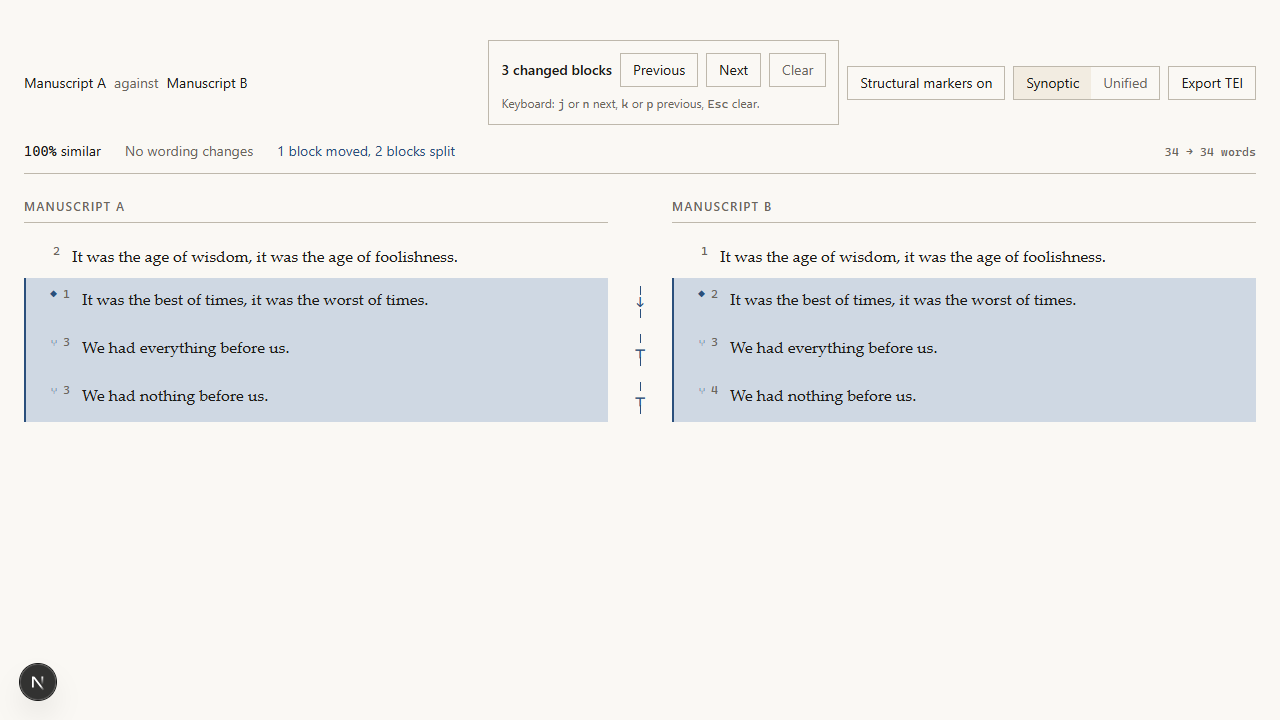
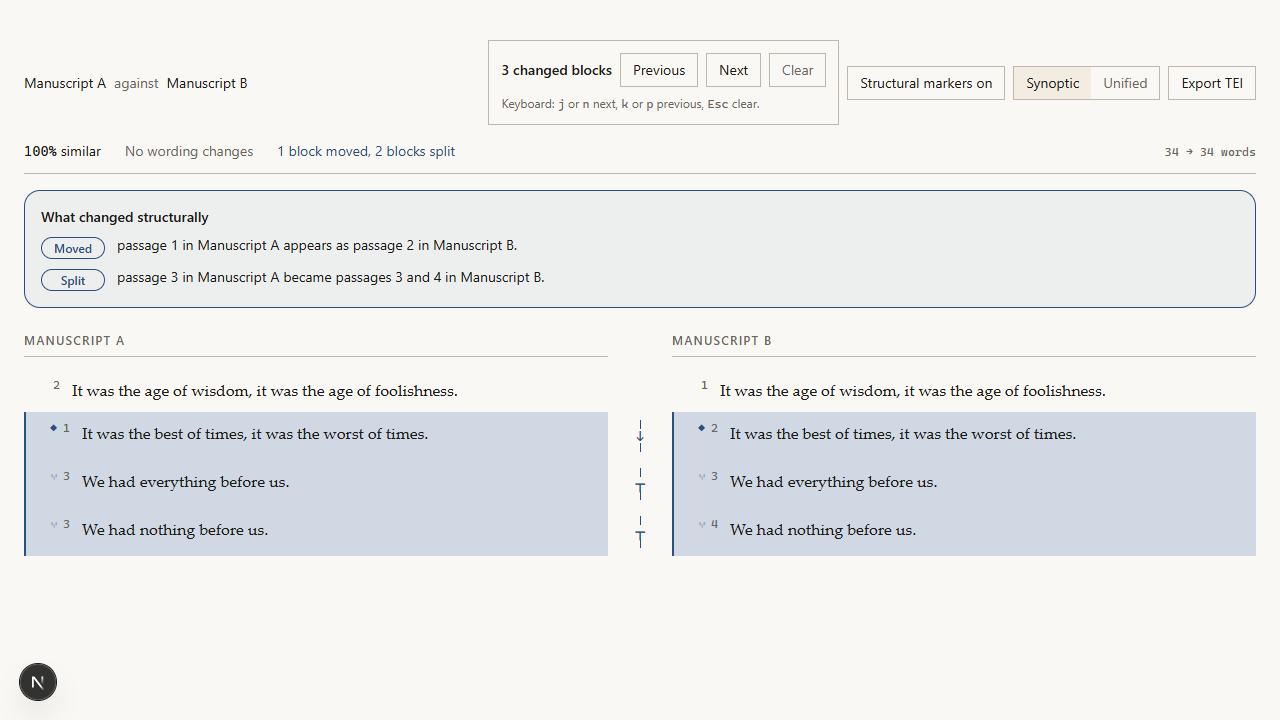
fix(frontend): explain structural changes in words
The screenshot required a reader to infer a move and split from a diamond, a down arrow, two fork glyphs, blue underlays, and mismatched block ordinals. That is a private visual vocabulary, not an explanation.

The viewer now states the relationships before the manuscripts: which A passage appears at which B position, and which passage became several or several became one. Details wait until the full block set is loaded, are capped for long collations, and disappear with the structural-marker toggle. The live moved/split/merge tests pin the sentences and the accessibility pass covers the panel.

The documentation screenshots are regenerated from the real application. Their capture utility now terminates the exact Windows process tree by PID, so it exits in seconds instead of leaving uvicorn alive indefinitely.

diff --git a/frontend/components/StructuralSummary.tsx b/frontend/components/StructuralSummary.tsx
@@ -1,0 +1,149 @@
+import type { BlockStatus, DiffBlock } from "@/lib/types";
+
+const STRUCTURAL_STATUSES = new Set<BlockStatus>(["MOVED", "SPLIT", "MERGED"]);
+const MAX_VISIBLE_RELATIONSHIPS = 5;
+
+interface StructuralRelationship {
+  key: string;
+  status: "MOVED" | "SPLIT" | "MERGED";
+  description: string;
+}
+
+function uniqueIndices(values: Array<number | null>): number[] {
+  return [...new Set(values.filter((value): value is number => value !== null))].sort(
+    (left, right) => left - right,
+  );
+}
+
+function joinPositions(indices: number[]): string {
+  const positions = indices.map((index) => (index + 1).toLocaleString());
+  if (positions.length === 1) return positions[0];
+  if (positions.length === 2) return `${positions[0]} and ${positions[1]}`;
+  return `${positions.slice(0, -1).join(", ")}, and ${positions.at(-1)}`;
+}
+
+function passage(indices: number[]): string {
+  return `${indices.length === 1 ? "passage" : "passages"} ${joinPositions(indices)}`;
+}
+
+/**
+ * Turn the payload's structural groups into sentences rather than asking a
+ * reader to decode a diamond, arrow, fork, and two block ordinals.
+ */
+export function structuralRelationships(blocks: DiffBlock[]): StructuralRelationship[] {
+  const groups = new Map<string, DiffBlock[]>();
+
+  for (const block of blocks) {
+    if (!STRUCTURAL_STATUSES.has(block.status)) continue;
+
+    const key =
+      block.status === "MOVED"
+        ? `MOVED:${block.id}`
+        : `${block.status}:${block.group_id ?? block.id}`;
+    const group = groups.get(key);
+    if (group) {
+      group.push(block);
+    } else {
+      groups.set(key, [block]);
+    }
+  }
+
+  const relationships: StructuralRelationship[] = [];
+  for (const [key, group] of groups) {
+    const status = group[0].status;
+    const aIndices = uniqueIndices(group.map((block) => block.a_index));
+    const bIndices = uniqueIndices(group.map((block) => block.b_index));
+    if (aIndices.length === 0 || bIndices.length === 0) continue;
+
+    if (status === "MOVED") {
+      relationships.push({
+        key,
+        status,
+        description: `${passage(aIndices)} in Manuscript A appears as ${passage(bIndices)} in Manuscript B.`,
+      });
+    } else if (status === "SPLIT") {
+      relationships.push({
+        key,
+        status,
+        description: `${passage(aIndices)} in Manuscript A became ${passage(bIndices)} in Manuscript B.`,
+      });
+    } else if (status === "MERGED") {
+      relationships.push({
+        key,
+        status,
+        description: `${passage(aIndices)} in Manuscript A became ${passage(bIndices)} in Manuscript B.`,
+      });
+    }
+  }
+
+  return relationships;
+}
+
+function displayStatus(status: StructuralRelationship["status"]): string {
+  switch (status) {
+    case "MOVED":
+      return "Moved";
+    case "SPLIT":
+      return "Split";
+    case "MERGED":
+      return "Merged";
+  }
+}
+
+/**
+ * A prose explanation of the structural marks in the reading surface.
+ *
+ * Details are withheld until every block has loaded: a split group whose
+ * second member is still outside the window would otherwise be described as a
+ * one-to-one relationship, which is exactly the kind of plausible lie this
+ * component exists to prevent.
+ */
+export function StructuralSummary({
+  blocks,
+  visible,
+  complete,
+}: {
+  blocks: DiffBlock[];
+  visible: boolean;
+  complete: boolean;
+}) {
+  if (!visible || !complete) return null;
+
+  const relationships = structuralRelationships(blocks);
+  if (relationships.length === 0) return null;
+
+  const visibleRelationships = relationships.slice(0, MAX_VISIBLE_RELATIONSHIPS);
+  const hiddenCount = relationships.length - visibleRelationships.length;
+
+  return (
+    <section
+      className="mt-4 rounded-2xl border border-moved bg-moved-underlay/30 p-4 font-ui text-sm text-ink"
+      aria-labelledby="structural-summary-heading"
+      data-testid="structural-summary"
+    >
+      <h2 id="structural-summary-heading" className="font-semibold">
+        What changed structurally
+      </h2>
+      <ul className="mt-2 space-y-2">
+        {visibleRelationships.map((relationship) => (
+          <li
+            key={relationship.key}
+            className="flex items-start gap-3"
+            data-testid={`structural-relationship-${relationship.status}`}
+          >
+            <span className="mt-0.5 min-w-16 rounded-full border border-moved px-2 py-0.5 text-center text-xs font-semibold text-moved">
+              {displayStatus(relationship.status)}
+            </span>
+            <span>{relationship.description}</span>
+          </li>
+        ))}
+      </ul>
+      {hiddenCount > 0 ? (
+        <p className="mt-3 text-xs text-ink-muted">
+          {hiddenCount.toLocaleString()} more structural{" "}
+          {hiddenCount === 1 ? "change" : "changes"} — use Next to visit each one.
+        </p>
+      ) : null}
+    </section>
+  );
+}

diff --git a/frontend/e2e/structural-live.spec.ts b/frontend/e2e/structural-live.spec.ts
@@ -89,6 +89,12 @@ test("a moved passage reads as moved, not as a deletion and an insertion", async
   await expect(marker).toBeVisible();
   await expect(marker).toHaveText(GLYPH.MOVED);
 
+  const explanation = page.getByTestId("structural-relationship-MOVED");
+  await expect(explanation).toContainText("Moved");
+  await expect(explanation).toContainText(
+    /passage \d+ in Manuscript A appears as passage \d+ in Manuscript B/i,
+  );
+
   // The distance is the whole information content of a move marker: "moved"
   // alone does not tell a reader where the passage went.
   await expect(marker).toHaveAttribute("title", /^moved \d+ blocks? (earlier|later)$/);
@@ -116,6 +122,9 @@ test("a paragraph split reads as a split group with no wording change", async ({
   // paragraphs came from one.
   await expect(page.locator('[data-testid^="block-connector-"]').first()).toBeVisible();
   await expect(page.getByTestId("gutter-marker-SPLIT").first()).toHaveText(GLYPH.SPLIT);
+  await expect(page.getByTestId("structural-relationship-SPLIT")).toContainText(
+    /passage \d+ in Manuscript A became passages \d+ and \d+ in Manuscript B/i,
+  );
 
   // The author changed the paragraphing and not one word.
   await expect(page.getByTestId("diff-summary-bar")).toContainText(
@@ -136,6 +145,9 @@ test("a merged pair reads as a merge group with no wording change", async ({
 
   await expect(page.getByTestId("gutter-marker-MERGED").first()).toHaveText(GLYPH.MERGED);
   await expect(page.locator('[data-testid^="block-connector-"]').first()).toBeVisible();
+  await expect(page.getByTestId("structural-relationship-MERGED")).toContainText(
+    /passages \d+ and \d+ in Manuscript A became passage \d+ in Manuscript B/i,
+  );
 
   await expect(page.getByTestId("diff-summary-bar")).toContainText(
     /no wording changes/i,
@@ -150,6 +162,7 @@ test("the moves toggle suppresses move affordances and survives sharing", async 
 
   await gotoComparison(page, `/c/${id}`);
   await expect(page.getByTestId("diff-viewer")).toHaveAttribute("data-moves", "on");
+  await expect(page.getByTestId("structural-summary")).toBeVisible();
   const connector = page.locator('[data-testid^="block-connector-"]').first();
   await expect(connector).toHaveAttribute("data-visible", "true");
 
@@ -161,10 +174,12 @@ test("the moves toggle suppresses move affordances and survives sharing", async 
   // state: a reader who turned markers off should see plain prose.
   await expect(connector).toHaveAttribute("data-visible", "false");
   await expect(page.getByTestId("gutter-marker-MOVED").first()).toHaveText("");
+  await expect(page.getByTestId("structural-summary")).toHaveCount(0);
 
   // A researcher must be able to send a colleague the suppressed view.
   await gotoComparison(page, `/c/${id}?moves=off`);
   await expect(page.getByTestId("diff-viewer")).toHaveAttribute("data-moves", "off");
+  await expect(page.getByTestId("structural-summary")).toHaveCount(0);
   await expect(
     page.locator('[data-testid^="block-connector-"]').first(),
   ).toHaveAttribute("data-visible", "false");

diff --git a/frontend/components/DiffViewer.tsx b/frontend/components/DiffViewer.tsx
@@ -15,6 +15,7 @@ import { useBlockNavigation } from "@/lib/hooks/useBlockNavigation";
 import { useWindowedBlocks } from "@/lib/hooks/useWindowedBlocks";
 import { usePrintAll } from "@/lib/hooks/usePrintAll";
 import { LoadingProgress } from "./LoadingProgress";
+import { StructuralSummary } from "./StructuralSummary";
 
 function ViewModeToggle({
   mode,
@@ -212,6 +213,12 @@ export function DiffViewer({
         isComplete={windowed.isComplete}
         error={windowed.error}
         onRetry={windowed.retry}
+      />
+
+      <StructuralSummary
+        blocks={blocks}
+        visible={movesEnabled}
+        complete={windowed.isComplete}
       />
 
       {blocks.length === 0 ? (

diff --git a/docs/10-components.md b/docs/10-components.md
@@ -1,6 +1,6 @@
 This document specifies the React component contract for uploading witnesses and reading a finished `ComparisonResult`.
 
-**Status:** Draft
+**Status:** Implemented and normative for v1
 
 **Related:** [README](./README.md) · [Data schema](./05-data-schema.md) · [API reference](./06-api-reference.md) · [Frontend architecture](./08-frontend-architecture.md) · [Design system](./09-design-system.md) · [Performance and scale](./11-performance-and-scale.md)
 
@@ -17,6 +17,7 @@ The client does not compute a diff. It uploads two witnesses, asks the backend f
 /c/[comparisonId]
 └─ DiffViewer
    ├─ DiffSummaryBar
+   ├─ StructuralSummary                explicit moved/split/merged sentences
    ├─ ViewModeToggle
    ├─ ChangeNavigator
    ├─ LoadingProgress                  while a windowed comparison loads
@@ -40,12 +41,12 @@ The gutter shows block ordinals from `a_index` and `b_index`. These are not rend
 
 | Convention | Requirement |
 |---|---|
-| Client boundary | `ManuscriptUploader`, `DiffViewer`, `VirtualizedSynopticView`, `VirtualizedUnifiedView`, `DiffSummaryBar`, `DiffBlockRow`, `TokenSpan`, `ChangeGutter`, `ChangeNavigator`, `LoadingProgress`, `ComparisonPending`, `ViewModeToggle`, `BlockConnector`, and `EmptyState` are client components because they read browser input, URL state, focus state, measured layout, or scroll position. |
+| Client boundary | `ManuscriptUploader`, `DiffViewer`, `VirtualizedSynopticView`, `VirtualizedUnifiedView`, `DiffSummaryBar`, `StructuralSummary`, `DiffBlockRow`, `TokenSpan`, `ChangeGutter`, `ChangeNavigator`, `LoadingProgress`, `ComparisonPending`, `ViewModeToggle`, `BlockConnector`, and `EmptyState` render inside client boundaries because they consume browser state or the interactive comparison payload. |
 | Naming | Public props use `comparisonId`, `comparison`, `blocks`, `metrics`, `options`, `a`, `b`, `a_index`, and `b_index` only where those names mirror the contract. UI text always says Manuscript A and Manuscript B, never positional pane labels. |
 | Memoization | `TokenSpan` is memoized by `text`, `status`, and announcement mode. `DiffBlockRow` is memoized by `DiffBlock.id`, pane, expansion state, and focus state. Handlers passed into virtualized rows are stable callbacks. |
 | DOM discipline | A 100,000-word manuscript can produce about 120,000 word tokens per witness before payload run-coalescing. A payload `Token` is a contiguous run, not necessarily one word. Rows render only the current virtual window and must never compute metrics by counting `Token` array entries. |
 | URL state | `?view=synoptic` maps to `ViewMode.SYNOPTIC`; `?view=unified` maps to `ViewMode.UNIFIED`. `?block=<index>` uses the block ordinal, not a DOM row number. `?moves=on|off` controls whether move connectors are shown; it does not mutate `DiffOptions.detect_moves`, which only records how the backend computed the payload. |
-| Testability hooks | Components expose stable `data-testid` values for the component root and block ids: `manuscript-uploader`, `diff-viewer`, `synoptic-view`, `diff-summary-bar`, `block-loading-status`, `diff-block-row-{id}`, and `token-{status}`. Hooks must not encode visual position. |
+| Testability hooks | Components expose stable `data-testid` values for the component root and block ids: `manuscript-uploader`, `diff-viewer`, `synoptic-view`, `diff-summary-bar`, `structural-summary`, `structural-relationship-{status}`, `block-loading-status`, `diff-block-row-{id}`, and `token-{status}`. Hooks must not encode visual position. |
 
 ## ManuscriptUploader
 
@@ -433,44 +434,58 @@ Structural findings — moved, split, merged, and changed stanza breaks — are 
 ```ts
 export interface DiffSummaryBarProps {
   metrics: DiffMetrics;
-  blocks: DiffBlock[];
-  total_blocks: number;
-  activeBlockIndex?: number | null;
-  onNavigateToBlock?: (blockIndex: number) => void;
-  isWindowed?: boolean;
 }
 ```
 
 ### Internal state
 
-| State | Purpose |
-|---|---|
-| `focusedMinimapIndex` | Keyboard focus within the change-density minimap. |
-| `visibleRange` | The loaded or visible block range, used to distinguish full and windowed payloads. |
+None. Every displayed value is derived directly from `DiffMetrics`.
 
 ### Behaviour
 
-The bar renders `DiffMetrics.similarity`, `edit_count`, `insertions`, `deletions`, `churn`, `blocks_moved`, `blocks_split`, `blocks_merged`, `a_word_count`, and `b_word_count`. Percent values render with one decimal place below 99.95% and as whole `0%` or `100%` at the extremes. Counts use locale-aware grouping. A comparison with no changes reads "100% similar, 0 edits"; a comparison with no shared tokens reads "0% similar" and reports insertions and deletions rather than implying failure.
+The bar renders rounded `DiffMetrics.similarity`, wording changes as insertion/deletion word counts (or "No wording changes"), structural counts, and the A-to-B word-count transition. Counts use locale-aware grouping.
 
-`insertions`, `deletions`, `edit_count`, and `unchanged_tokens` are word counts supplied by `DiffMetrics`, never counts derived from `Token[]` length. `DiffSummaryBar` may aggregate block statuses for navigation density, but it must not derive textual metrics from rendered tokens.
-
-The change-density minimap represents all `total_blocks`. Each segment aggregates blocks by status and doubles as navigation. In windowed mode, unloaded ranges remain visible as neutral segments and request their page before navigation.
+`insertions`, `deletions`, `edit_count`, and `unchanged_tokens` are word counts supplied by `DiffMetrics`, never counts derived from `Token[]` length. The bar must not derive textual metrics from rendered tokens.
 
 ### Accessibility
 
-Metrics are grouped in a labelled summary region. The minimap is keyboard navigable and exposes each segment as a button with an accessible name such as "Blocks 400 to 449, high change density".
+Metrics are grouped in a region labelled "Comparison summary". Wording and structural findings are separate phrases so "No wording changes" never implies "nothing changed".
 
 ### Edge, empty, and error states
 
 | State | Rendering |
 |---|---|
-| `total_blocks === 0` | Show word counts and "No comparable blocks". |
-| All unchanged | Show a quiet minimap and do not hide the navigation control. |
-| All changed | Show "0% similar" and a full-density minimap without warning styling. |
+| All wording unchanged | Show "No wording changes"; retain any structural counts. |
+| No structural findings | Omit the structural-count phrase. |
+| No shared wording | Show `0% similar` and the insertion/deletion word counts. |
 
 ### Design tokens consumed
 
 `DiffSummaryBar` consumes `--color-ink`, `--color-ink-muted`, `--color-paper`, `--color-rule`, `--color-rubric`, `--color-addition`, `--color-deletion`, `--color-moved`, `--font-ui`, and `--font-mono`.
+
+## StructuralSummary
+
+`StructuralSummary` translates `MOVED`, `SPLIT`, and `MERGED` payload
+relationships into sentences before the manuscript begins. Connectors and
+gutter glyphs remain useful for tracing the rows visually, but they are not
+treated as a vocabulary a first-time reader should already know.
+
+Examples:
+
+- "Moved — passage 1 in Manuscript A appears as passage 2 in Manuscript B."
+- "Split — passage 3 in Manuscript A became passages 3 and 4 in Manuscript B."
+- "Merged — passages 3 and 4 in Manuscript A became passage 3 in Manuscript B."
+
+The component groups split and merged members by `group_id`, renders at most
+five relationships, and directs the reader to change navigation for the
+remainder. It renders only after every block has loaded: describing a partial
+split group as one-to-one while its second member is outside the current
+window would be a plausible lie.
+
+The structural-marker toggle hides this summary together with the gutter and
+connector affordances. Each sentence carries a visible text badge (`Moved`,
+`Split`, or `Merged`), so the explanation does not depend on colour or a
+special glyph.
 
 ## DiffBlockRow
 

diff --git a/docs/09-design-system.md b/docs/09-design-system.md
@@ -119,9 +119,9 @@ Token-level cues and block-level cues use different channels. `INSERTION` and `D
 | `MODIFIED` | Gutter marker indicating changed tokens; inline tokens carry `INSERTION` and `DELETION` treatments. |
 | `INSERTED` | Block exists only in Manuscript B. The Manuscript B pane shows inserted content; the Manuscript A side reserves an alignment gap only when needed for synoptic reading. |
 | `DELETED` | Block exists only in Manuscript A. The Manuscript A pane shows deleted content using the through-text treatment; Manuscript B reserves an alignment gap only when needed. |
-| `MOVED` | Gutter marker plus `BlockConnector` using `--color-moved`; optional endpoint underlay uses `--color-moved-underlay`. Text itself is not recoloured as moved. |
-| `SPLIT` | Gutter marker plus grouped connector from one Manuscript A block to multiple Manuscript B blocks. Members share `group_id`; the connector, not token tint, communicates the relationship. |
-| `MERGED` | Gutter marker plus grouped connector from multiple Manuscript A blocks to one Manuscript B block. Members share `group_id`; the connector, not token tint, communicates the relationship. |
+| `MOVED` | Visible `Moved` sentence naming the A and B passage positions, plus gutter marker and `BlockConnector` using `--color-moved`; optional endpoint underlay uses `--color-moved-underlay`. Text itself is not recoloured as moved. |
+| `SPLIT` | Visible `Split` sentence naming the one A passage and its B passages, plus grouped connector. Members share `group_id`; token tint never communicates the relationship. |
+| `MERGED` | Visible `Merged` sentence naming the A passages and their one B passage, plus grouped connector. Members share `group_id`; token tint never communicates the relationship. |
 
 `ARTIFACT` is a `BlockKind`, not a `BlockStatus`. `BlockKind.ARTIFACT` blocks are de-emphasised and collapsible. They use muted ink, smaller UI labeling, and no default participation in the main change rhythm because running heads, folio numbers, and footers are extracted but excluded from diff by default.
 
@@ -135,9 +135,9 @@ Required redundant channels:
 |---|---|
 | `INSERTION` | Fine underline, addition gutter marker, and screen-reader text. |
 | `DELETION` | Hairline strike, deletion gutter marker, and screen-reader text. |
-| `MOVED` | Diamond gutter marker and connector. |
-| `SPLIT` | Forked gutter marker and branching connector. |
-| `MERGED` | Joined gutter marker and converging connector. |
+| `MOVED` | Text label and position sentence, diamond gutter marker, and connector. |
+| `SPLIT` | Text label and passage sentence, forked gutter marker, and branching connector. |
+| `MERGED` | Text label and passage sentence, joined gutter marker, and converging connector. |
 | `BlockKind.ARTIFACT` | Collapsed disclosure label and muted block chrome. |
 
 Inline ARIA uses hidden labels around changed tokens:

diff --git a/docs-site/guide/reading.md b/docs-site/guide/reading.md
@@ -26,6 +26,12 @@ The default granularity is word level. Tokens in the payload are rendered as unc
 `MERGED`
 : Multiple Manuscript A blocks became one Manuscript B block.
 
+The **What changed structurally** panel writes those relationships out before
+the manuscripts. For example: "Passage 1 in Manuscript A appears as passage 2
+in Manuscript B" and "Passage 3 in Manuscript A became passages 3 and 4 in
+Manuscript B." The symbols in the gutters then help trace those named passages;
+they are not the only explanation.
+
 Verse is segmented as one `VERSE_LINE` block per line, so a transposed line can be reported as `MOVED`. Stanza boundaries are carried separately so a stanza redivision is also visible.
 
 ## Navigation and deep links
